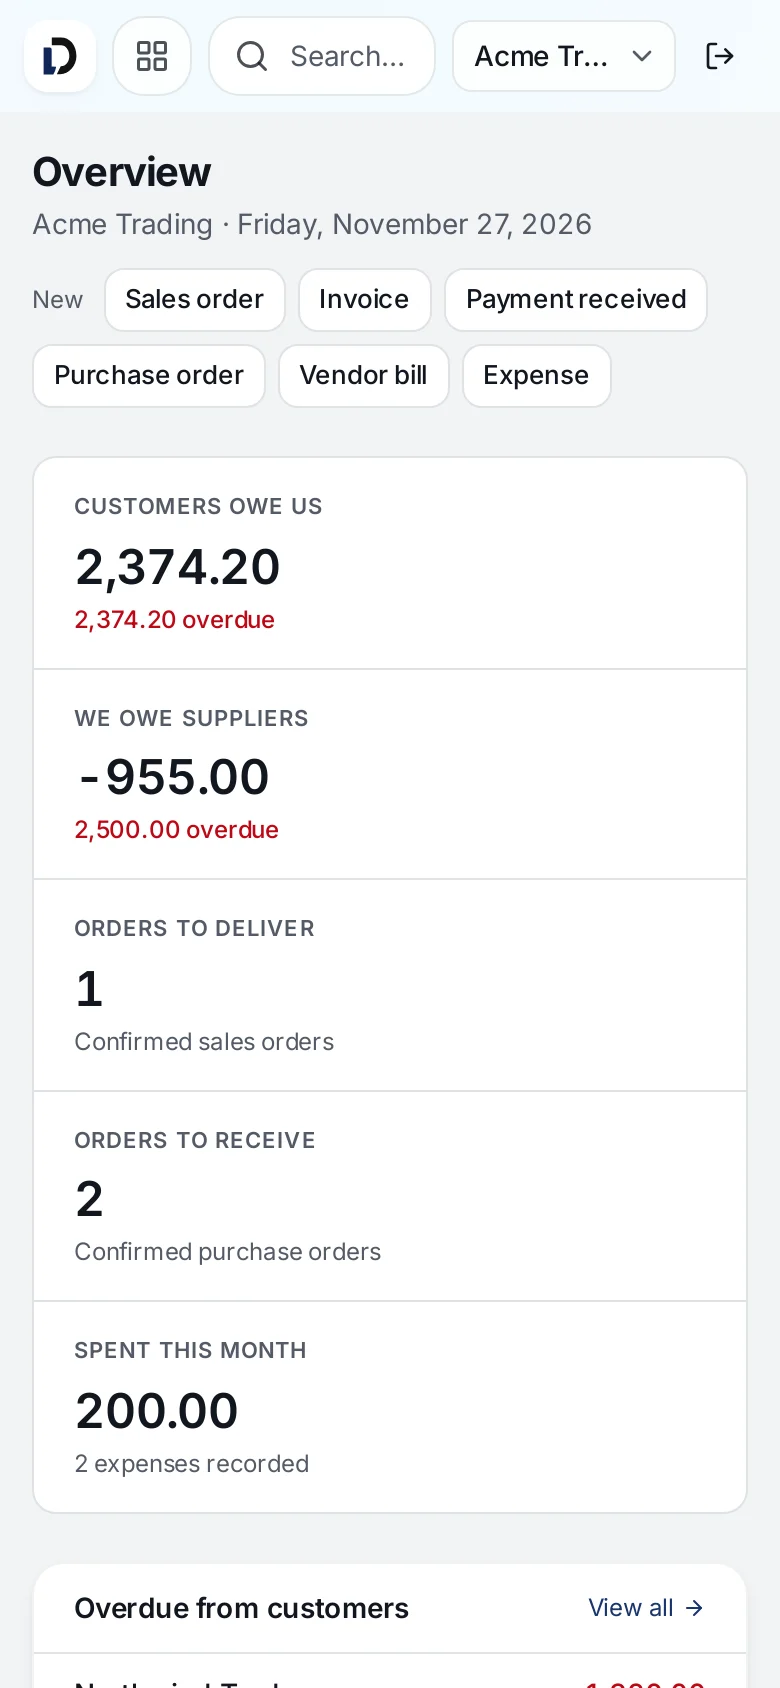
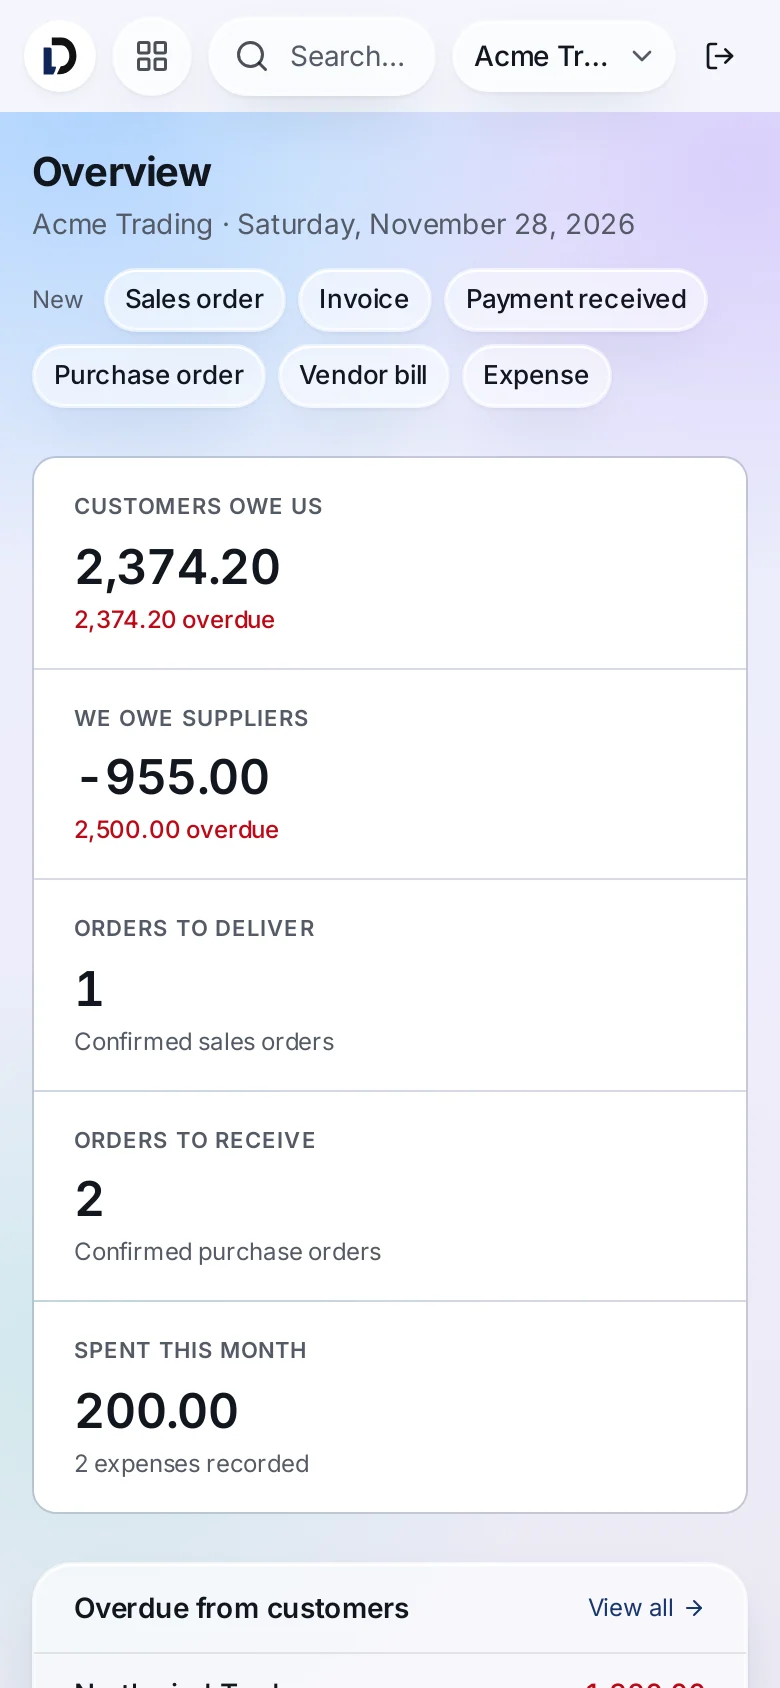
Match the live product: glass look screenshots, bank reconciliation, corrected FAQ

Changed region(s): [[0.0, 0.0616, 1.0, 0.2773], [0.0, 0.7085, 0.0615, 0.8934]]

diff --git a/index.html b/index.html
@@ -25,7 +25,7 @@
 <main>
 
 <section class="hero"><div class="wrap">
-<p class="pill"><b>New</b> App-style home screen &amp; multiple branches</p>
+<p class="pill"><b>New</b> Bank reconciliation &amp; multiple branches</p>
 <h1>Your whole business, <em>one tap away.</em></h1>
 <p class="lead">Sales, stock, invoices, accounts and GST as simple apps that share one set of books.</p>
 <div class="cta"><a class="btn" href="#contact">Request a demo</a><a class="btn btn-line" href="#story">See how it works</a></div>
@@ -61,7 +61,7 @@
 <div class="p-shot"><div class="subs"><button data-img="stock" aria-pressed="true">Stock on hand</button></div><div class="frame"><div class="bar"><i></i><i></i><i></i><span>erp.divisent.com</span></div><img src="assets/img/stock.webp" alt="Divisent ERP Inventory screen" loading=lazy></div></div></div><div class="panel" role="tabpanel" id="p-invoicing" aria-labelledby="t-invoicing" hidden>
 <div class="p-copy"><h3>Bill what you delivered and get paid for it.</h3><ul class="tick"><li>Invoice delivered quantities only, once</li><li>PDF invoices, e-mailed automatically on posting</li><li>One payment across many invoices, with credits</li><li>Receivables ageing checked against the ledger</li></ul></div>
 <div class="p-shot"><div class="subs"><button data-img="invoices" aria-pressed="true">Invoices</button><button data-img="receivables" aria-pressed="false">Receivables ageing</button><button data-img="invoicemail" aria-pressed="false">Invoice e-mails</button></div><div class="frame"><div class="bar"><i></i><i></i><i></i><span>erp.divisent.com</span></div><img src="assets/img/invoices.webp" alt="Divisent ERP Invoicing screen" loading=lazy></div></div></div><div class="panel" role="tabpanel" id="p-accounting" aria-labelledby="t-accounting" hidden>
-<div class="p-copy"><h3>Real double-entry books, always current.</h3><ul class="tick"><li>Journals, chart of accounts, account and party ledgers</li><li>Profit &amp; loss, balance sheet and trial balance</li><li>Year-end closing with period lock</li><li>Excel export on key reports</li></ul></div>
+<div class="p-copy"><h3>Real double-entry books, always current.</h3><ul class="tick"><li>Journals, chart of accounts, account and party ledgers</li><li>Profit &amp; loss, balance sheet and trial balance</li><li>Year-end closing with period lock</li><li>Bank reconciliation: import the statement and match it</li><li>Excel export on key reports</li></ul></div>
 <div class="p-shot"><div class="subs"><button data-img="pl" aria-pressed="true">Profit &amp; loss</button><button data-img="balance" aria-pressed="false">Balance sheet</button><button data-img="trial" aria-pressed="false">Trial balance</button><button data-img="yearend" aria-pressed="false">Year-end</button></div><div class="frame"><div class="bar"><i></i><i></i><i></i><span>erp.divisent.com</span></div><img src="assets/img/pl.webp" alt="Divisent ERP Accounting screen" loading=lazy></div></div></div><div class="panel" role="tabpanel" id="p-control" aria-labelledby="t-control" hidden>
 <div class="p-copy"><h3>Delegate the work, keep the authority.</h3><ul class="tick"><li>Roles per area: no access, view, edit or manage</li><li>Junior staff draft; an accountant approves or rejects</li><li>Audit log of who did what, with Excel export</li><li>Two-factor sign-in</li></ul></div>
 <div class="p-shot"><div class="subs"><button data-img="roles" aria-pressed="true">Roles</button><button data-img="approvals" aria-pressed="false">Approvals</button></div><div class="frame"><div class="bar"><i></i><i></i><i></i><span>erp.divisent.com</span></div><img src="assets/img/roles.webp" alt="Divisent ERP Control screen" loading=lazy></div></div></div>
@@ -90,7 +90,7 @@
 
 <section class="sec alt" id="features"><div class="wrap">
 <p class="eyebrow">All features</p><h2>Everything inside Divisent ERP.</h2>
-<div class="dir"><article><h3>Home &amp; work</h3><ul><li>Overview dashboard</li><li>Approvals</li><li>Ctrl+K command search</li><li>Multiple companies</li><li>Multiple branches</li></ul></article><article><h3>Sales</h3><ul><li>Enquiries</li><li>Sales orders</li><li>Customers</li></ul></article><article><h3>Purchase</h3><ul><li>Purchase orders</li><li>Suppliers</li><li>Vendor bills</li><li>Payments to suppliers</li><li>Payables ageing</li></ul></article><article><h3>Expenses</h3><ul><li>Expenses with receipts</li><li>Expense categories</li><li>Expense report</li></ul></article><article><h3>Inventory</h3><ul><li>Stock on hand</li><li>Stock moves</li><li>Products</li><li>Product categories</li><li>Brands</li><li>Warehouses</li><li>Locations</li></ul></article><article><h3>Invoicing</h3><ul><li>Invoices</li><li>Payments received</li><li>Receivables ageing</li></ul></article><article><h3>Accounting</h3><ul><li>Journal entries</li><li>Chart of accounts</li><li>Journals</li><li>Account ledger</li><li>Party statement</li><li>Profit &amp; loss</li><li>Balance sheet</li><li>Trial balance</li><li>Year-end closing</li><li>Accounting settings</li></ul></article><article><h3>Tax &amp; GST</h3><ul><li>Taxes</li><li>Tax codes</li><li>Input tax credit</li><li>GST returns</li><li>GSTR-2B check</li><li>E-invoice &amp; e-way bill files</li></ul></article><article><h3>E-mail</h3><ul><li>Overdue reminders</li><li>Invoice e-mails</li><li>Reminder rules</li><li>Mail log</li><li>Email settings</li></ul></article><article><h3>Company &amp; team</h3><ul><li>Company settings</li><li>Audit log</li><li>Users</li><li>Roles</li></ul></article></div>
+<div class="dir"><article><h3>Home &amp; work</h3><ul><li>Overview dashboard</li><li>Approvals</li><li>Ctrl+K command search</li><li>Multiple companies</li><li>Multiple branches</li></ul></article><article><h3>Sales</h3><ul><li>Enquiries</li><li>Sales orders</li><li>Customers</li></ul></article><article><h3>Purchase</h3><ul><li>Purchase orders</li><li>Suppliers</li><li>Vendor bills</li><li>Payments to suppliers</li><li>Payables ageing</li></ul></article><article><h3>Expenses</h3><ul><li>Expenses with receipts</li><li>Expense categories</li><li>Expense report</li></ul></article><article><h3>Inventory</h3><ul><li>Stock on hand</li><li>Stock moves</li><li>Products</li><li>Product categories</li><li>Brands</li><li>Warehouses</li><li>Locations</li></ul></article><article><h3>Invoicing</h3><ul><li>Invoices</li><li>Payments received</li><li>Receivables ageing</li></ul></article><article><h3>Accounting</h3><ul><li>Journal entries</li><li>Chart of accounts</li><li>Journals</li><li>Account ledger</li><li>Bank reconciliation</li><li>Party statement</li><li>Profit &amp; loss</li><li>Balance sheet</li><li>Trial balance</li><li>Year-end closing</li><li>Accounting settings</li></ul></article><article><h3>Tax &amp; GST</h3><ul><li>Taxes</li><li>Tax codes</li><li>Input tax credit</li><li>GST returns</li><li>GSTR-2B check</li><li>E-invoice &amp; e-way bill files</li></ul></article><article><h3>E-mail</h3><ul><li>Overdue reminders</li><li>Invoice e-mails</li><li>Reminder rules</li><li>Mail log</li><li>Email settings</li></ul></article><article><h3>Company &amp; team</h3><ul><li>Company settings</li><li>Audit log</li><li>Users</li><li>Roles</li></ul></article></div>
 </div></section>
 
 <section class="sec" id="why"><div class="wrap">
@@ -122,7 +122,8 @@
 <h2 class="center">Questions, answered honestly.</h2>
 <details><summary>Who is Divisent ERP for?</summary><p>Growing trading and service businesses that want sales, stock and accounts in one place.</p></details>
 <details><summary>Does it file GST returns for me?</summary><p>No. It prepares figures and files for you to check and upload. It is not connected live to the GST portal.</p></details>
-<details><summary>What isn't included yet?</summary><p>Multi-currency, credit and debit notes, stock valuation, lot or serial tracking, bank reconciliation and payroll are not available today.</p></details>
+<details><summary>What isn't included yet?</summary><p>Multi-currency, credit and debit notes, stock valuation, lot or serial tracking, live bank feeds and payroll are not available today.</p></details>
+<details><summary>Can it match my books with the bank?</summary><p>Yes. Import your bank's CSV or Excel statement; clear matches are made automatically and you match the rest by hand. It is file import, not a live bank connection.</p></details>
 <details><summary>Can I run more than one company?</summary><p>Yes. One login can work in several companies, and each company's data stays separate.</p></details>
 <details><summary>Do you support branches?</summary><p>Yes. One company can have several branches, each with its own GSTIN and invoice numbering, and key reports filter by branch. Stock transfers between branches are not built yet.</p></details>
 <details><summary>Can it be adapted to our process?</summary><p>Yes, through custom fields and rules kept separate from the core, so the product stays upgradeable.</p></details>

diff --git a/assets/style.css b/assets/style.css
@@ -190,3 +190,8 @@ h2{font-size:26px}.lead{font-size:16.5px}
 @media(prefers-reduced-motion:reduce){.launch,.open{animation:none}.ico{transition:none}}
 .d-body{min-height:390px}.hero .lead{max-width:68ch}
 @media(max-width:600px){.hero .btn{white-space:nowrap;padding:12px 6px;font-size:14px}.d-body{min-height:400px}}
+
+/* glass wallpaper, as in the product */
+.hero,.tint,.cta-sec.navy{background:radial-gradient(620px 420px at 8% 0,#a9d8ff,transparent),radial-gradient(620px 420px at 72% 4%,#d6c2ff,transparent),radial-gradient(560px 420px at 4% 100%,#b5f0ee,transparent),radial-gradient(560px 420px at 96% 92%,#ffd3e0,transparent),#eef3fc}
+.d-body{background:radial-gradient(420px 300px at 10% 0,#a9d8ff,transparent),radial-gradient(420px 300px at 85% 0,#d6c2ff,transparent),radial-gradient(380px 280px at 0 100%,#b5f0ee,transparent),radial-gradient(380px 280px at 100% 100%,#ffd3e0,transparent),#e9f0fb}
+.dock,.device,.d-top .co{-webkit-backdrop-filter:blur(22px) saturate(1.5);backdrop-filter:blur(22px) saturate(1.5)}
